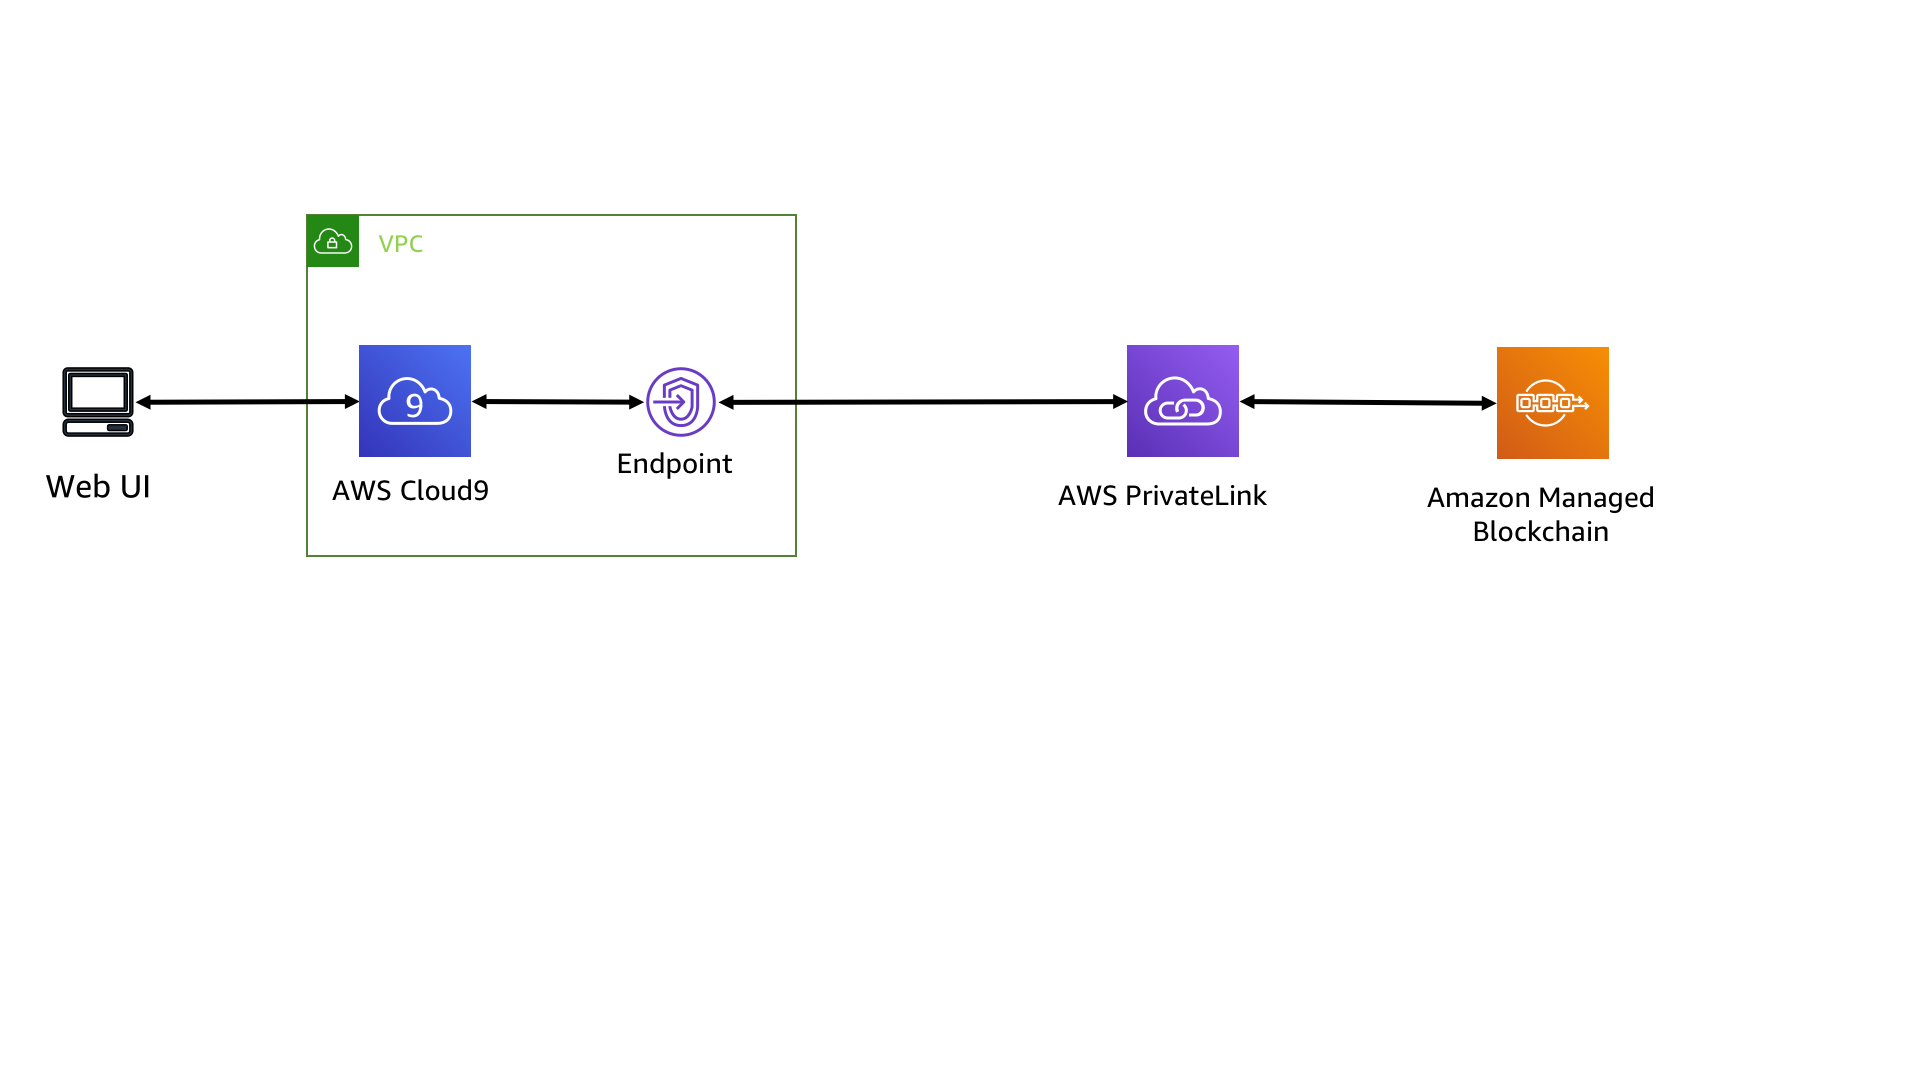
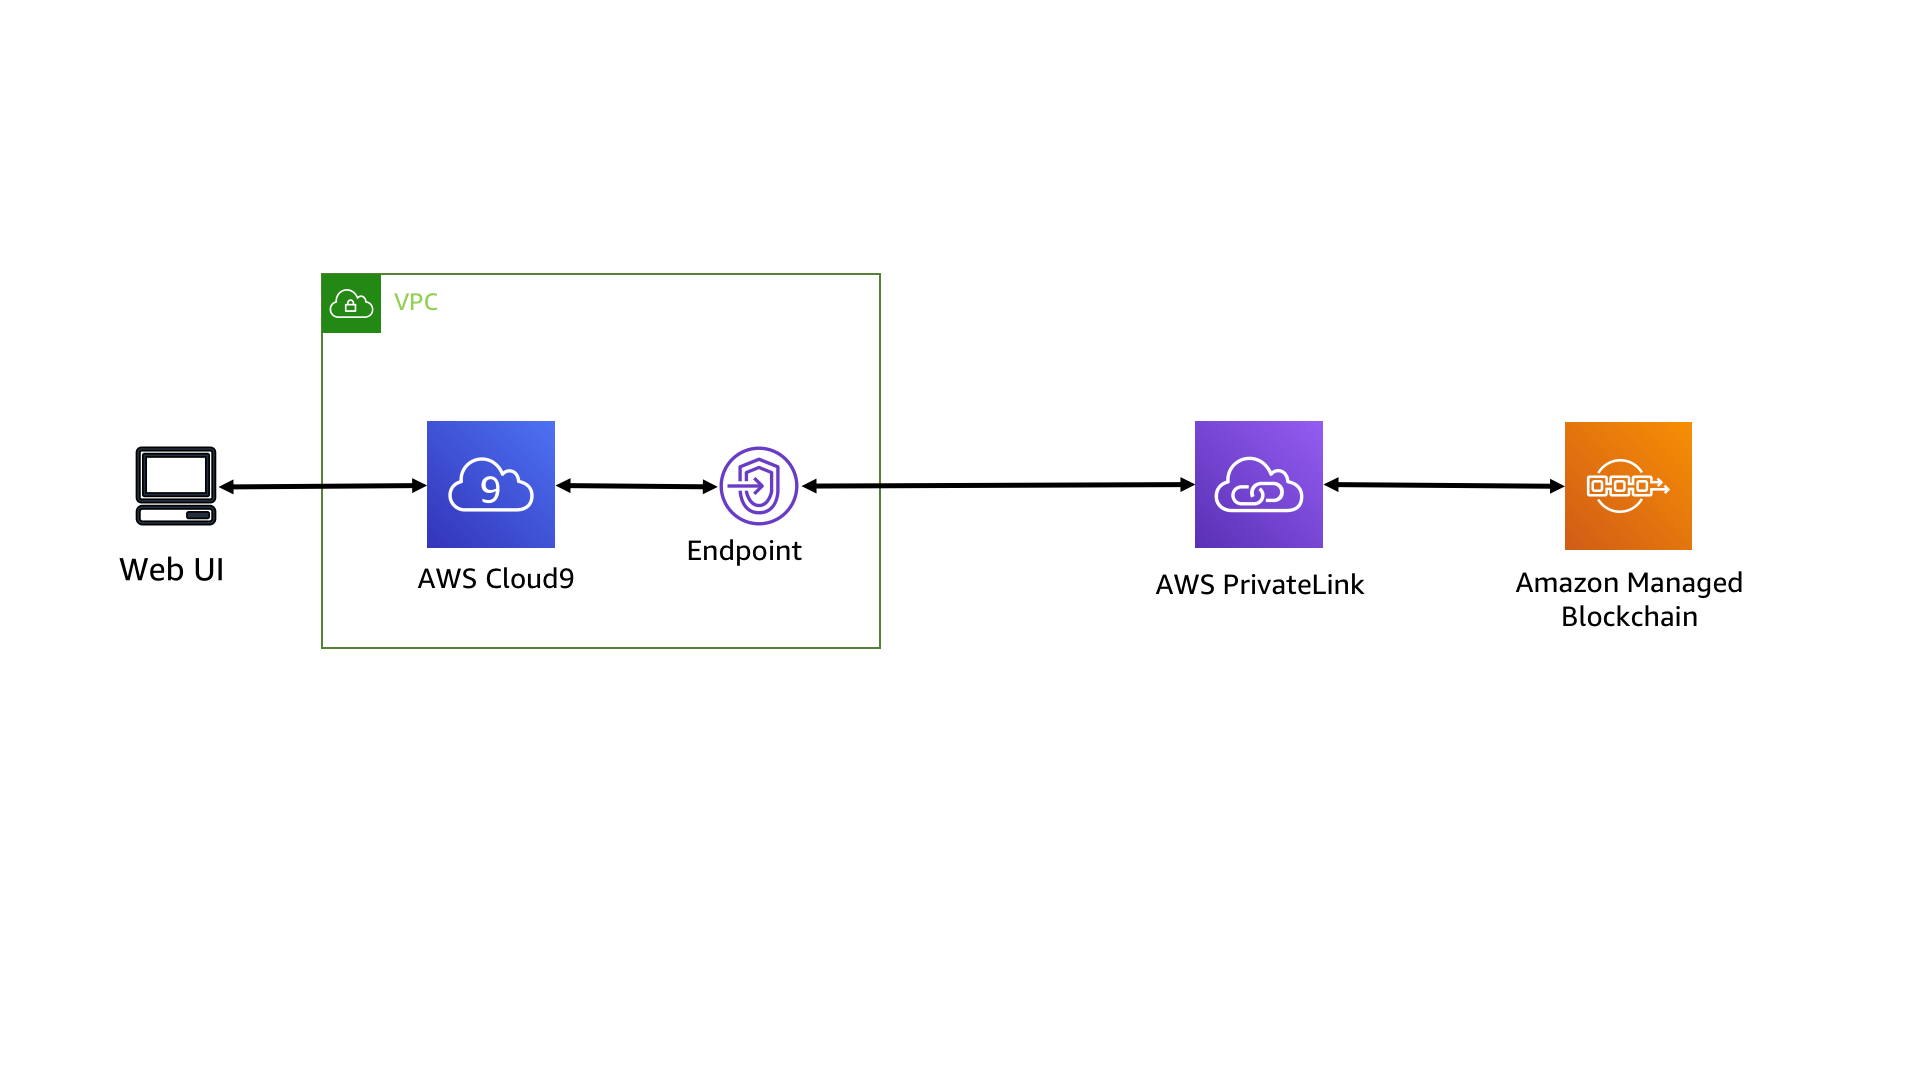
Added additional diagrams

Changed region(s): [[0.0312, 0.1833, 0.9062, 0.5806], [0.0625, 0.5194, 0.125, 0.55], [0.1562, 0.4889, 0.1875, 0.5194]]

diff --git a/README.md b/README.md
@@ -10,6 +10,10 @@ There are Five parts to this workshop. In each part we will deploy:
 * An analytics solution for our chaincode events using Amazon Kinesis Analytics, Amazon Athena, and Amazon Quicksight
 * Optionally: A shared Fabric channel across multiple workshop participants
 
+This diagram describes this architecture at a high level:
+
+![End to End Architecture](./images/endtoend.png)
+
 # Part 0 - Prerequisites and Environment Setup
 
 The following are prerequisites for this workshop:
